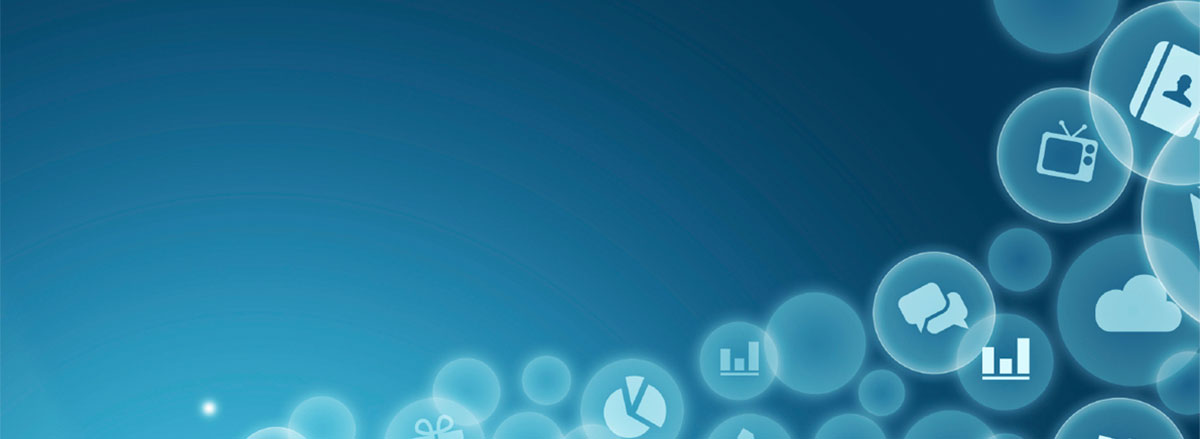
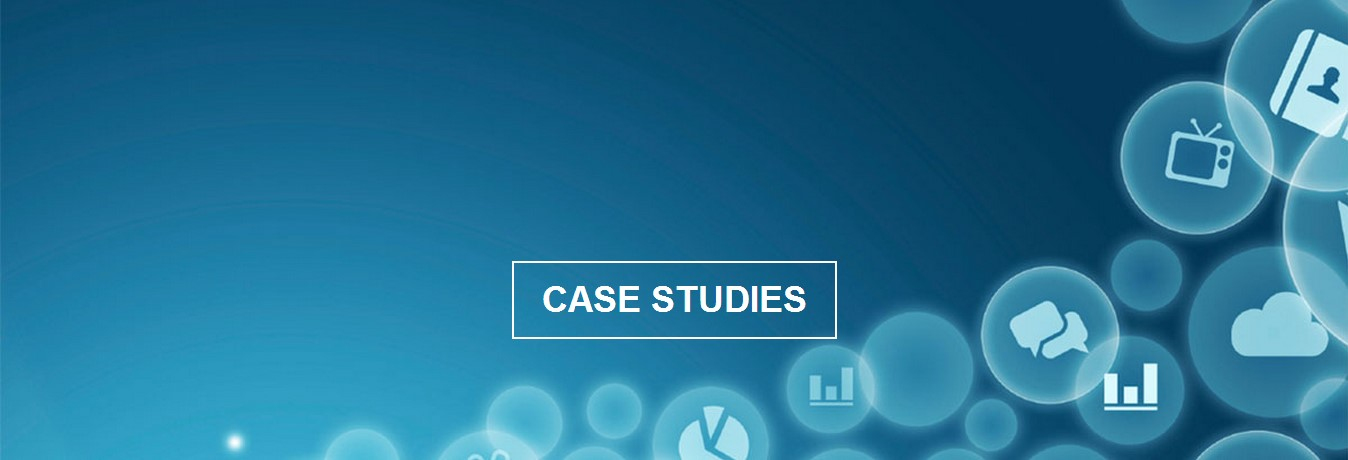
final fixes as requested by M

diff --git a/styles/main.less b/styles/main.less
@@ -6,8 +6,6 @@
 
 // You must import variables.less before importing populr_mixins.less
 //@import 'palette-custom';
-//@import 'palette-Lavendar';
-//@import 'palette-Apricot';
 @import 'palette-default';
 @import 'variables';
 @import 'http://populr.me/assets/developers/populr_mixins.less';
@@ -127,18 +125,6 @@
 #background {
   height: 460px;
   width: 100%;
-  h1 {
-    border: 2px solid #FFFFFF;
-    color: #FFFFFF;
-    font-family: 'Arimo',sans-serif;
-    font-size: 36px;
-    font-weight: bold;
-    margin: 0 auto;
-    padding: 12px 28px;
-    text-transform: uppercase;
-    top: 230px;
-    width: 270px
-  }
 }
 
 // Pop title
@@ -273,6 +259,9 @@ h2, h3, h4, h5 { text-shadow: 0 1px 1px rgba(0,0,0,0.4); }
     text-transform: capitalize;
     max-width:227px;
 }
+@color1 : lighten(@custom-or-default-color , 20%);
+@color2 : @custom-or-default-color;
+
 
 .link-btn {
   font-size: 16px;
@@ -283,13 +272,13 @@ h2, h3, h4, h5 { text-shadow: 0 1px 1px rgba(0,0,0,0.4); }
   border-radius: 6px !important;
   border: none;
   transition: all 0.3s linear 0s !important;
-  background: -moz-linear-gradient(top, #eb7665 40%, #ea452d 60%);
-  background: -webkit-gradient(linear, left top, left bottom, color-stop(40%, #eb7665), color-stop(60%, #ea452d));
-  background: -webkit-linear-gradient(top, #eb7665 40%, #ea452d 60%);
-  background: -o-linear-gradient(top, #eb7665 40%, #ea452d 60%);
-  background: -ms-linear-gradient(top, #eb7665 40%, #ea452d 60%);
-  background: linear-gradient(to bottom, #eb7665 40%, #ea452d 60%);
-  filter: progid:DXImageTransform.Microsoft.gradient(startColorstr='#eb7665', endColorstr='#ea452d', GradientType=0);
+  background: -moz-linear-gradient(top, @color1 40%, @color2 60%);
+  background: -webkit-gradient(linear, left top, left bottom, color-stop(40%, @color1), color-stop(60%, @color2));
+  background: -webkit-linear-gradient(top, @color1 40%, @color2 60%);
+  background: -o-linear-gradient(top, @color1 40%, @color2 60%);
+  background: -ms-linear-gradient(top, @color1 40%, @color2 60%);
+  background: linear-gradient(to bottom, @color1 40%, @color2 60%);
+  filter: progid:DXImageTransform.Microsoft.gradient(startColorstr='@color1', endColorstr='@color2', GradientType=0);
   box-shadow: 0px 5px 10px rgba(0,0,0,0.5) !important;
   &:hover {
     background: darken(@link-color, 20%) !important;
@@ -465,6 +454,18 @@ h2, h3, h4, h5 { text-shadow: 0 1px 1px rgba(0,0,0,0.4); }
 // IE Styles
 .lt-ie8 {
     button { padding: 8px 5px !important; }
+}
+.lt-ie9 {
+  .slide { width: 100%;}
+}
+.lt-ie8 {
+  .fullbg-container {
+    img {
+      display: block !important;
+      width: 100% !important;
+      
+    }
+  }
 }
 
 //code added to match the moontoast

diff --git a/index.html b/index.html
@@ -34,8 +34,6 @@
 
   <meta itemprop="palette" content="palette-default" title="Default" data-preview="#EA5859">
   <meta itemprop="palette" content="palette-custom" data-preview="custom">
-  <meta itemprop="palette" content="palette-Lavendar" title="Lavendar" data-preview="#9266BE">
-  <meta itemprop="palette" content="palette-Apricot" title="Apricot" data-preview="#ED9300">
 
   <!-- Add any styles your theme requires here -->
   <link rel="stylesheet/less" type="text/css" href="styles/main.less">
@@ -59,9 +57,7 @@
           </div>
       </div>
   </div>
-    <div id="background">
-        <h1>Case Studies</h1>
-    </div>
+    <div id="background"></div>
     <div id="my-pop-title">{{{title}}}</div>
     
     {{#region "columnizer" id="top-region" max_cols="4" max_auto_assets="0" dummy_content="T-1|T-1|T-1"}}
